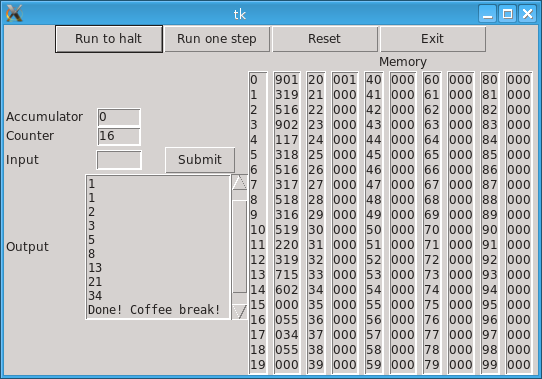
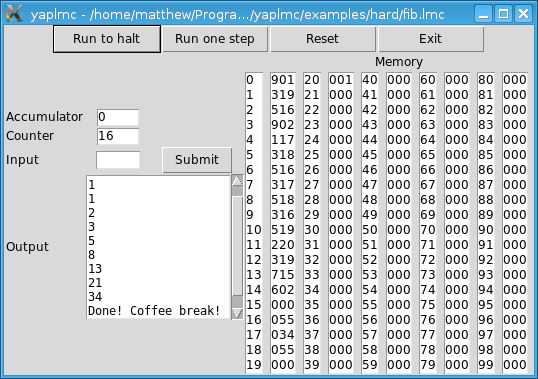
Improve CLI and errors

diff --git a/yaplmc.py b/yaplmc.py
@@ -17,6 +17,15 @@ You should have received a copy of the GNU General Public License
 along with this program.  If not, see <http://www.gnu.org/licenses/>.
 """
 
+__author__ = "Matthew Joyce"
+__copyright__ = "Copyright 2013"
+__credits__ = ["Matthew Joyce"]
+__license__ = "GPL3"
+__version__ = "1.0.0"
+__maintainer__ = "Matthew Joyce"
+__email__ = "matsjoyce@gmail.com"
+__status__ = "Development"
+
 instructions = {"ADD": "1xx",
                 "SUB": "2xx",
                 "STA": "3xx",
@@ -33,9 +42,10 @@ instructions = {"ADD": "1xx",
 
 def add_arg(memo, arg, lineno, line):
     instr = instructions[memo]
-    if arg and len(arg) > 2:
-        raise SyntaxError("Bad argument on line {}: '{}'".format(lineno + 1,
-                                                                 memo))
+    if arg:
+        if len(arg) > 2 or not arg.isdigit():
+            raise SyntaxError("Bad argument on line {}: '{}'"
+                              .format(lineno + 1, arg))
     if arg:
         arg = arg.zfill(2)
     if "xx" in instr:
@@ -97,6 +107,9 @@ def assemble(lines):
     for instr, arg, line, lineno in instrs:
         if instr == "DAT":
             if arg:
+                if not arg.isdigit() or not -500 <= int(arg) <= 499:
+                    raise SyntaxError("Bad argument on line {}: '{}'"
+                                      .format(lineno + 1, arg))
                 i = int(arg)
                 arg = 1000 + i if i < 0 else i
             else:
@@ -165,6 +178,10 @@ class Runner:
         memory_str = ", ".join("{}: {:03}".format(i, self.memory[i])
                                for i in range(100))
         self.debug_output("Memory: {}".format(memory_str), DEBUG_LEVEL_MEDIUM)
+        self.debug_output("Accumulator: {}".format(self.accumulator),
+                          DEBUG_LEVEL_MEDIUM)
+        self.debug_output("Counter: {}".format(self.counter),
+                          DEBUG_LEVEL_MEDIUM)
         self.counter += 1
         self.debug_output("Incrementing counter to {}".format(self.counter),
                           DEBUG_LEVEL_HIGH)
@@ -253,17 +270,23 @@ This program comes with ABSOLUTELY NO WARRANTY.
 This is free software, and you are welcome to redistribute it
 under certain conditions. Type `yaplmc --licence` for details.
                                          """.strip())
-    arg_parser.add_argument("-d", "--debug", help="debug level",
-                            type=int, default=0)
+    arg_parser.add_argument("-d", "--debug", help="debug level"
+                            " (repeat for more info, 3 is the max)",
+                            action="count", default=0)
     arg_parser.add_argument("-f", "--file", help="lmc file",
                             default=None)
     arg_parser.add_argument("-l", "--licence", help="display licence",
+                            action="store_true")
+    arg_parser.add_argument("-V", "--version", help="display version",
                             action="store_true")
 
     args_from_parser = arg_parser.parse_args()
 
     if args_from_parser.licence:
         print(__doc__.strip())
+        exit()
+    elif args_from_parser.version:
+        print("yaplmc", __version__)
         exit()
 
     if args_from_parser.file:
@@ -278,6 +301,9 @@ under certain conditions. Type `yaplmc --licence` for details.
         print("Error:", e.args[0])
         exit(1)
     print("Assembly successful")
+    if args_from_parser.debug:
+        print("Code:")
+        print(" ".join(map(str, machine_code[:code_length])))
     print("Running...")
     runner = Runner(machine_code, debug_level=args_from_parser.debug)
     try:

diff --git a/yaplmc_gui.py b/yaplmc_gui.py
@@ -17,6 +17,15 @@ You should have received a copy of the GNU General Public License
 along with this program.  If not, see <http://www.gnu.org/licenses/>.
 """
 
+__author__ = "Matthew Joyce"
+__copyright__ = "Copyright 2013"
+__credits__ = ["Matthew Joyce"]
+__license__ = "GPL3"
+__version__ = "1.0.0"
+__maintainer__ = "Matthew Joyce"
+__email__ = "matsjoyce@gmail.com"
+__status__ = "Development"
+
 import tkinter
 from tkinter import filedialog as fdialog
 from tkinter import scrolledtext as stext
@@ -56,7 +65,11 @@ class MemoryDisplay(tkinter.Frame):
 class AssembleGUI:
     def __init__(self):
         self.root = tkinter.Tk()
-        code = fdialog.askopenfile().read().split("\n")
+        self.root.wm_title("yaplmc")
+        f = fdialog.askopenfile()
+        self.fname = f.name
+        self.root.wm_title("yaplmc - " + self.fname)
+        code = f.read().split("\n")
         try:
             self.code, code_length = assemble(code)
         except SyntaxError as e:
@@ -79,16 +92,15 @@ class AssembleGUI:
 
     def run(self):
         self.root.destroy()
-        r = RunGUI()
-        r.setup_runner(self.code)
+        r = RunGUI(self.code, self.fname)
         r.mainloop()
 
 
 class RunGUI:
-    def __init__(self):
+    def __init__(self, code, fname):
         self.root = tkinter.Tk()
+        self.root.wm_title("yaplmc - " + fname)
 
-    def setup_runner(self, code):
         self.getting_inp = False
         self.runner = Runner(code, get_input=self.get_input,
                              give_output=self.give_output,
